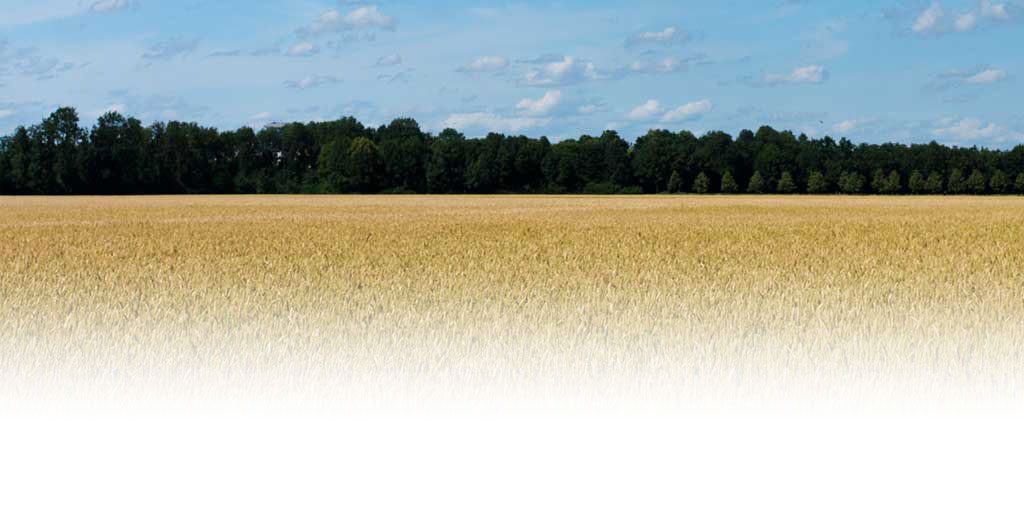
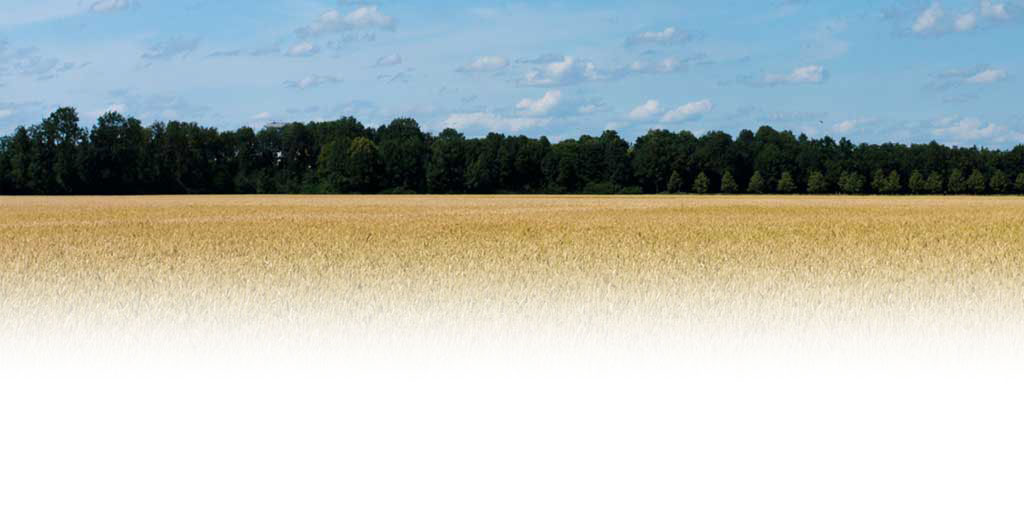
Adjusting Bkg and Credit

Changed region(s): [[0.0, 0.4651, 1.0, 0.7442]]

diff --git a/Web.Admin/2017/css/customize2017.css b/Web.Admin/2017/css/customize2017.css
@@ -34,3 +34,7 @@ footer li a:hover {
 color: #006633;
 text-decoration: none;
 }
+
+#photoCredit {
+    margin-top: -10px;
+}
